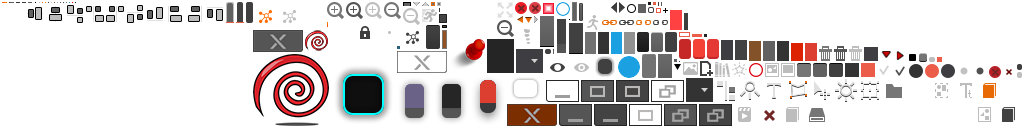
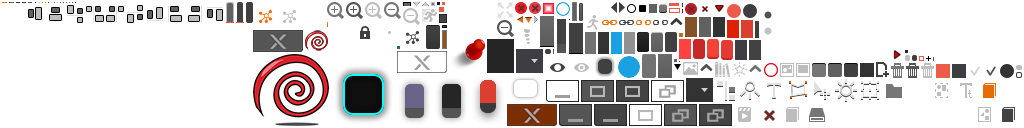
Add Z-Index controls in `Items Tree`, close #28

Changed region(s): [[0.625, 0.0, 1.0, 0.625], [0.4062, 0.0, 0.4375, 0.0938]]

diff --git a/src/main/java/games/rednblack/editor/view/ui/box/UIItemsTreeBox.java b/src/main/java/games/rednblack/editor/view/ui/box/UIItemsTreeBox.java
@@ -27,11 +27,9 @@ import com.badlogic.gdx.scenes.scene2d.ui.Cell;
 import com.badlogic.gdx.scenes.scene2d.ui.Tree;
 import com.badlogic.gdx.scenes.scene2d.utils.ClickListener;
 import com.badlogic.gdx.scenes.scene2d.utils.Selection;
+import com.badlogic.gdx.utils.Align;
 import com.badlogic.gdx.utils.Array;
-import com.kotcrab.vis.ui.widget.VisLabel;
-import com.kotcrab.vis.ui.widget.VisScrollPane;
-import com.kotcrab.vis.ui.widget.VisTable;
-import com.kotcrab.vis.ui.widget.VisTree;
+import com.kotcrab.vis.ui.widget.*;
 import games.rednblack.editor.HyperLap2DFacade;
 import games.rednblack.editor.renderer.components.MainItemComponent;
 import games.rednblack.editor.renderer.components.NodeComponent;
@@ -39,6 +37,7 @@ import games.rednblack.editor.renderer.components.ParentNodeComponent;
 import games.rednblack.editor.renderer.components.ZIndexComponent;
 import games.rednblack.editor.renderer.factory.EntityFactory;
 import games.rednblack.editor.renderer.utils.ComponentRetriever;
+import games.rednblack.h2d.common.MsgAPI;
 import games.rednblack.h2d.common.view.ui.StandardWidgetsFactory;
 import games.rednblack.editor.utils.runtime.EntityUtils;
 import games.rednblack.editor.view.stage.Sandbox;
@@ -52,6 +51,8 @@ public class UIItemsTreeBox extends UICollapsibleBox {
     private UIItemsTreeNode rootNode;
     private Set<Entity> lastSelection;
 
+    private final VisImageButton zUp, zDown;
+
     Sandbox sandbox;
 
     public UIItemsTreeBox() {
@@ -60,7 +61,31 @@ public class UIItemsTreeBox extends UICollapsibleBox {
         facade = HyperLap2DFacade.getInstance();
         treeTable = new VisTable();
         treeTable.left();
+        zUp = StandardWidgetsFactory.createImageButton("arrow-button");
+        StandardWidgetsFactory.addTooltip(zUp, "Move Z-Index Up");
+        zDown = StandardWidgetsFactory.createImageButton("arrow-button");
+        zDown.setTransform(true);
+        zDown.setRotation(180);
+        zDown.setOrigin(zUp.getPrefWidth() / 2, zUp.getPrefHeight() / 2);
+        StandardWidgetsFactory.addTooltip(zDown, "Move Z-Index Down");
+
         createCollapsibleWidget(treeTable);
+
+        zUp.addListener(new ClickListener() {
+            @Override
+            public void clicked(InputEvent event, float x, float y) {
+                sandbox.itemControl.itemZIndexChange(sandbox.getSelector().getCurrentSelection(), true);
+                facade.sendNotification(MsgAPI.ACTION_Z_INDEX_CHANGED, sandbox.getSelector().getCurrentSelection());
+            }
+        });
+
+        zDown.addListener(new ClickListener() {
+            @Override
+            public void clicked(InputEvent event, float x, float y) {
+                sandbox.itemControl.itemZIndexChange(sandbox.getSelector().getCurrentSelection(), false);
+                facade.sendNotification(MsgAPI.ACTION_Z_INDEX_CHANGED, sandbox.getSelector().getCurrentSelection());
+            }
+        });
     }
 
     UIItemsTreeNode rootTreeNode;
@@ -72,7 +97,7 @@ public class UIItemsTreeBox extends UICollapsibleBox {
         tree = new VisTree<>();
         VisScrollPane scroller = StandardWidgetsFactory.createScrollPane(tree);
         scroller.setFlickScroll(false);
-        treeTable.add(scroller).width(177).maxHeight(570);
+        treeTable.add(scroller).width(177).maxHeight(570).colspan(2);
         //
         rootTreeNode = addTreeRoot(rootScene, null);
         rootTreeNode.setExpanded(true);
@@ -82,6 +107,12 @@ public class UIItemsTreeBox extends UICollapsibleBox {
 
         if (lastSelection != null)
             setSelection(lastSelection);
+
+        treeTable.row().padTop(5);
+        treeTable.add(new Separator("tool")).colspan(2).padTop(2).padBottom(2).fill().expand().row();
+
+        treeTable.add(zUp).padLeft(zUp.getPrefWidth() + 10).left();
+        treeTable.add(zDown).padRight(zDown.getPrefWidth() + 10).right();
     }
 
     public void sortTree() {

diff --git a/src/main/java/games/rednblack/editor/view/ui/UIMainTable.java b/src/main/java/games/rednblack/editor/view/ui/UIMainTable.java
@@ -95,7 +95,7 @@ public class UIMainTable extends VisTable {
 		//TreeView
 		UIItemsTreeBoxMediator uiItemsTreeBoxMediator = facade.retrieveMediator(UIItemsTreeBoxMediator.NAME);
 		UIItemsTreeBox itemsBox = uiItemsTreeBoxMediator.getViewComponent();
-		leftBoxesPanel.add(itemsBox).width(184).fillX().maxHeight(600).top();
+		leftBoxesPanel.add(itemsBox).width(184).fillX().maxHeight(620).top();
 		middleTable.add(leftBoxesPanel).top().left().expand().padTop(15).padLeft(16);
 	}
 
